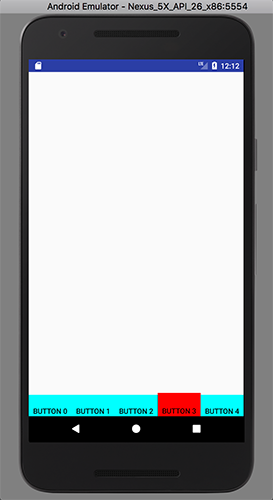
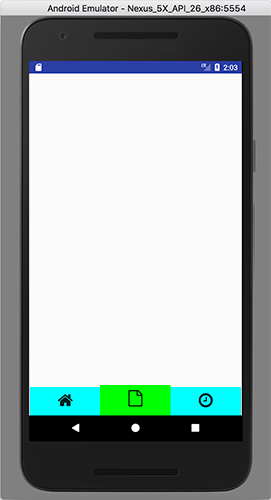
Updated README

diff --git a/Java/SurfaceDemo/app/src/main/java/com/appbuilders/surfacedemo/Controls/TabBar.java b/Java/SurfaceDemo/app/src/main/java/com/appbuilders/surfacedemo/Controls/TabBar.java
@@ -49,37 +49,4 @@ public class TabBar extends TabBarControl {
         this.tabBarItems.add(TabBarItem.createBasicItem(this.getContext(), "\uf016", TabBar1.class, Color.CYAN, Color.GREEN));
         this.tabBarItems.add(TabBarItem.createBasicItem(this.getContext(), "\uf017", TabBarScroll.class, Color.CYAN, Color.GREEN));
     }
-
-    /**
-     * This method handle change tabs
-     **/
-    public Intent changeTab(int position) {
-
-        Intent intent = null;
-
-        switch(position) {
-
-            case 0:
-                intent = new Intent(view.getContext(), MainActivity.class);
-                break;
-
-            case 1:
-                intent = new Intent(view.getContext(), TabBar1.class);
-                break;
-
-            case 2:
-                intent = new Intent(view.getContext(), MainActivity.class);
-                break;
-
-            case 3:
-                intent = new Intent(view.getContext(), TabBar1.class);
-                break;
-
-            case 4:
-                intent = new Intent(view.getContext(), MainActivity.class);
-                break;
-        }
-
-        return intent;
-    }
 }

diff --git a/README.md b/README.md
@@ -75,27 +75,40 @@ Surface it's a layout engine to create prototypes and complete apps so faster
   <td width="80%">
   	<pre lang="java">
 
+  	TabBar Custom Class
+
 	public class TabBar extends TabBarControl {
 
 	    public TabBar(SurfaceActivityView view, 
-	    				TabBarControlListener listener, int position) {
+	    					TabBarControlListener listener, int position) {
 
-    		super(view, listener);
-    		this.initialize(position);
-		}
-
-
-	    public void initialize(int position) {
-
-	        this.initialize(5, position);
-	        this.create();
+	        super(view, listener);
+	        this.init(position);
 	    }
-	}
+
+    public void init(int position) {
+
+        this.initialize(position);
+        this.create();
+    }
+
+    @Override
+    public void setTabs() {
+
+        this.tabBarItems = new ArrayList<>();
+
+        // Creating first element
+        this.tabBarItems.add(TabBarItem.createBasicItem(this.getContext(), "\uf015", MainActivity.class, Color.CYAN, Color.GREEN));
+        this.tabBarItems.add(TabBarItem.createBasicItem(this.getContext(), "\uf016", TabBar1.class, Color.CYAN, Color.GREEN));
+        this.tabBarItems.add(TabBarItem.createBasicItem(this.getContext(), "\uf017", TabBarScroll.class, Color.CYAN, Color.GREEN));
+    }
+	
+    SurfaceActivityView instance
 
 	@Override
 	public void onCreateView() {
 
-    	TabBar tabBar = new TabBar(this, this, 2);
+    	TabBar tabBar = new TabBar(this, this, 1);
 	}
   </td>
   <td width="20%">
